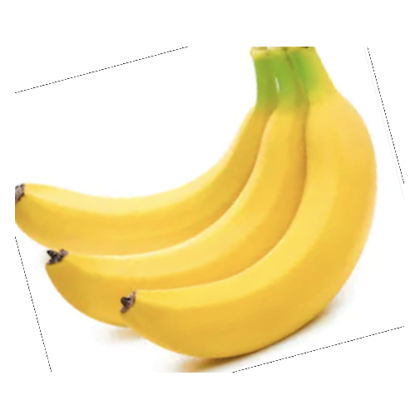
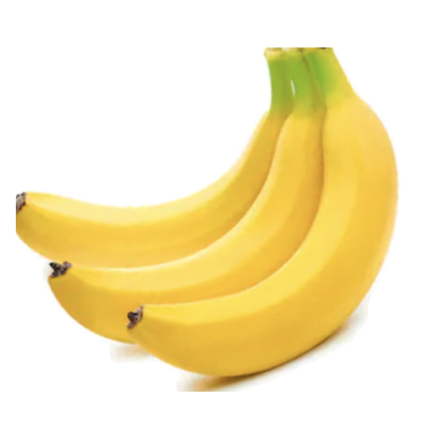
improve dark-mode text contrast

diff --git a/web/index.html b/web/index.html
@@ -32,8 +32,8 @@
     html[data-theme="dark"] {
       --bg: #141209;
       --panel: #201D12;
-      --ink: #F5EFDC;
-      --muted: #A39C86;
+      --ink: #FAF5E7;
+      --muted: #C9C2AA;
       --acid: #C6FF00;
       --acid-deep: #9ECf00;
       --tomato: #FF6A4B;